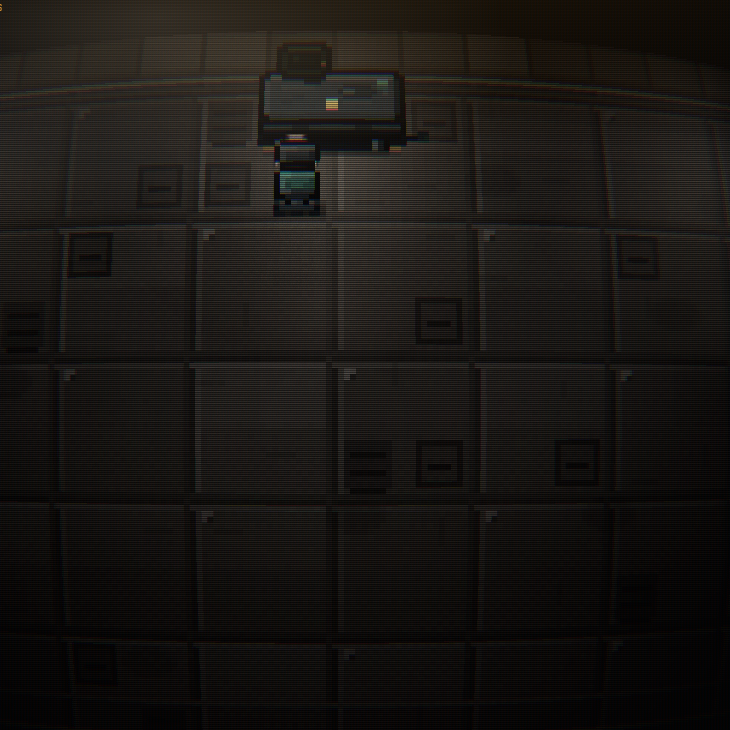
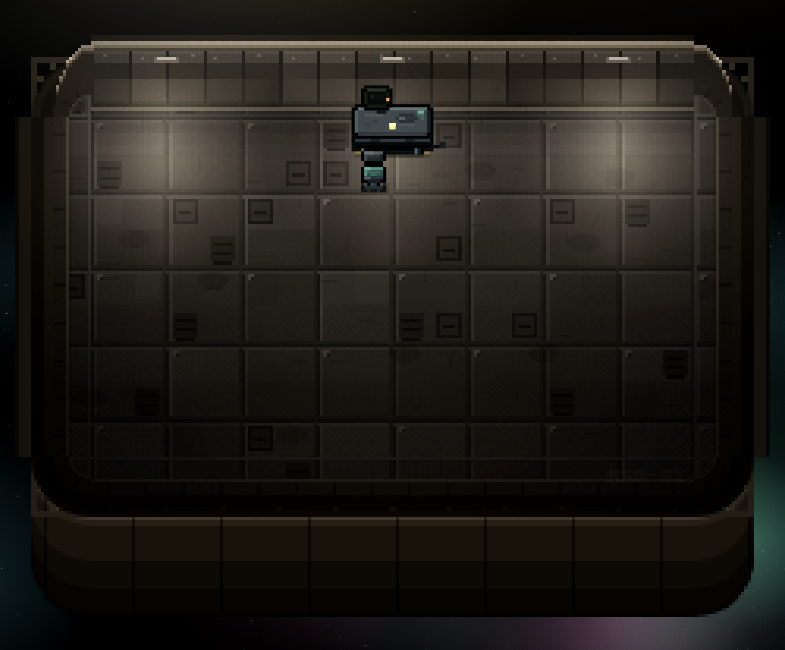
fix(website): live preview re-captured from trunk render — true proportions, no box
Old plate was dark, barrel-warped and square-cropped; Andrew flagged it. New plate is
the current trunk (49bf41e4) starter room captured clean via body.no-scan (warp/vignette
off), agent median-removed via in-zone _dbgTeleport x3. Canvas 785x650 at the room's real
aspect, figure unboxed (.bezel.live), seat/waypoints/speed re-mapped to capture scale.

diff --git a/website/live-preview.js b/website/live-preview.js
@@ -14,13 +14,13 @@
   var map = null;
   fetch('assets/live/blank-sheet.json').then(function(r){ return r.json(); }).then(function(j){ map = j; });
 
-  var A = 50;                                 // agent draw size (matches the capture scale)
-  var SEAT = { x: 299, y: 276 };              // the chair below the desk (feet position)
+  var A = 88;                                 // agent draw size (matches the capture scale)
+  var SEAT = { x: 373, y: 194 };              // the chair below the desk (feet position)
   var WAYPOINTS = [                            // in-room wander spots (kept off the walls)
-    { x: 210, y: 410 }, { x: 450, y: 370 }, { x: 340, y: 550 },
-    { x: 160, y: 550 }, { x: 530, y: 510 }, { x: 330, y: 350 }
+    { x: 180, y: 300 }, { x: 600, y: 320 }, { x: 390, y: 430 },
+    { x: 180, y: 450 }, { x: 560, y: 460 }, { x: 390, y: 250 }
   ];
-  var SPEED = 55;                             // px/s, unhurried like the app's idle walk
+  var SPEED = 95;                             // px/s, unhurried like the app's idle walk (capture scale)
 
   function frameRect(name){
     var i = map.names.indexOf(name);
@@ -80,7 +80,7 @@
     var fy = sitting ? SEAT.y : st.y;
     var fx = sitting ? SEAT.x : st.x;
     ctx.fillStyle = 'rgba(0,0,0,.42)';
-    ctx.beginPath(); ctx.ellipse(fx, fy + 2, A*0.26, 5, 0, 0, Math.PI*2); ctx.fill();
+    ctx.beginPath(); ctx.ellipse(fx, fy + 2, A*0.26, A*0.09, 0, 0, Math.PI*2); ctx.fill();
     // agent — smooth-downscaled like the app draws its skins
     if (map && sheet.complete){
       var r = frameRect(spriteName(now));
@@ -99,7 +99,7 @@
           clearInterval(t);
           var r = frameRect('sit_north');
           ctx.fillStyle = 'rgba(0,0,0,.42)';
-          ctx.beginPath(); ctx.ellipse(SEAT.x, SEAT.y + 2, A*0.26, 5, 0, 0, Math.PI*2); ctx.fill();
+          ctx.beginPath(); ctx.ellipse(SEAT.x, SEAT.y + 2, A*0.26, A*0.09, 0, 0, Math.PI*2); ctx.fill();
           ctx.imageSmoothingEnabled = true;
           ctx.drawImage(sheet, r.sx, r.sy, 92, 92, SEAT.x - A/2, SEAT.y - A + 8, A, A);
         }

diff --git a/website/index.html b/website/index.html
@@ -99,8 +99,8 @@
         </ul>
         <p>You direct from COMMS. They think, browse, build files, and deliver &mdash; with your models, your keys, on your machine.</p>
       </div>
-      <figure class="bezel">
-        <canvas id="live-preview" width="730" height="730" aria-label="Live preview of the StarNet starter room: the agent works at its desk, gets up, wanders the room, and returns"></canvas>
+      <figure class="bezel live">
+        <canvas id="live-preview" width="785" height="650" aria-label="Live preview of the StarNet starter room: the agent works at its desk, gets up, wanders the room, and returns"></canvas>
         <figcaption>// live preview &mdash; the actual starter room and skin, rendered in your browser. In the app, the desk pose means a real run.</figcaption>
       </figure>
     </div>

diff --git a/website/styles.css b/website/styles.css
@@ -219,6 +219,9 @@ a:hover{ color:var(--amber); }
 .bezel img{ width:100%; height:auto; display:block; image-rendering:auto; }
 .bezel canvas{ width:100%; height:auto; display:block; }
 .bezel figcaption{ padding:9px 4px 2px; font-size:14px; letter-spacing:1px; color:rgba(236,224,207,.35); }
+/* the live room preview floats free — the capture already sits in open space, no box */
+.bezel.live{ border:0; background:transparent; padding:0; box-shadow:none; }
+.bezel.live canvas{ image-rendering:auto; }
 
 /* feature cards */
 .cards{ display:grid; grid-template-columns:repeat(3,1fr); gap:18px; }
